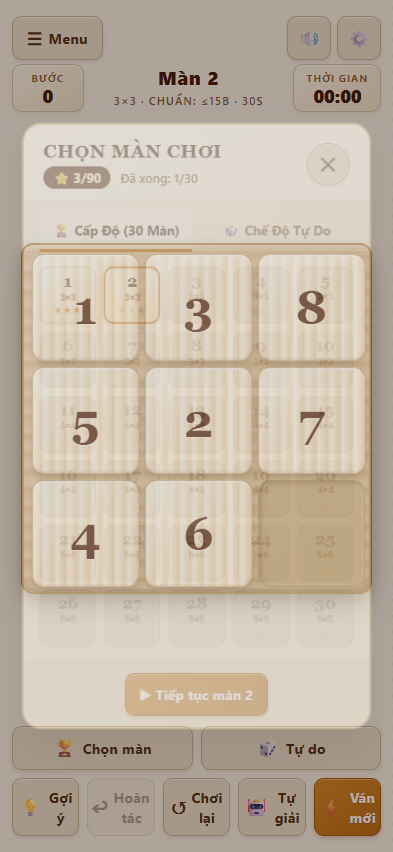
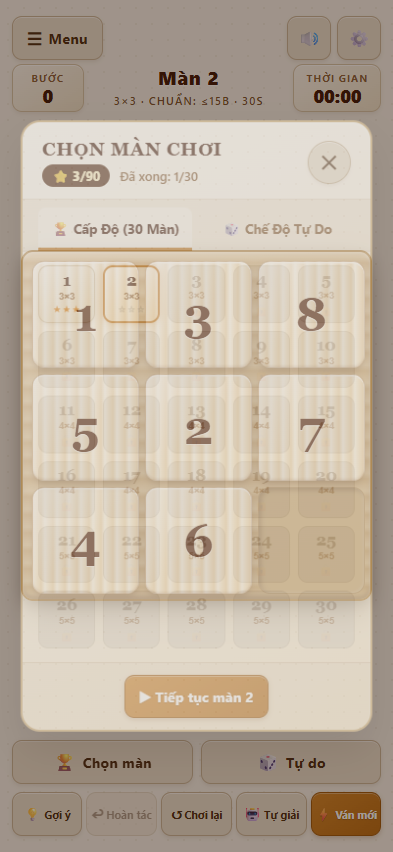
fix(ui): equalize HUD buttons dimensions and prevent multi-line wrap
- Make all HUD buttons equal width using CSS Grid (repeat(N, minmax(0, 1fr))) and flex: 1 1 0 fallback
- Enforce strict uniform heights (44px mobile/landscape, 46px desktop, 48px tablet) with box-sizing: border-box
- Add white-space: nowrap to avoid awkward word breaks (e.g. 'Hoàn tác', 'Trộn mới')
- Refine font sizes, padding, and gaps for full cross-device responsiveness without overflow
- Standardize size buttons (3x3 to 8x8) and nav buttons layout
- Update all visual audit screenshots across devices

diff --git a/src/style.css b/src/style.css
@@ -438,36 +438,49 @@ body {
 }
 
 .mode-nav-bar {
-  display: flex;
-  justify-content: space-between;
-  align-items: center;
+  display: grid;
+  grid-template-columns: repeat(2, minmax(0, 1fr));
   gap: 8px;
   width: 100%;
+  box-sizing: border-box;
 }
 
 .nav-btn {
-  flex: 1;
+  flex: 1 1 0;
+  min-width: 0;
+  width: 100%;
+  height: 44px;
+  min-height: 44px;
+  max-height: 44px;
+  display: inline-flex;
+  align-items: center;
+  justify-content: center;
+  gap: 6px;
   font-size: 0.85rem;
-  padding: 6px 12px;
+  padding: 0 10px;
+  white-space: nowrap;
+  box-sizing: border-box;
 }
 
 .size-selector-group {
-  display: flex;
-  flex-wrap: wrap;
-  justify-content: center;
-  align-items: center;
+  display: grid;
+  grid-template-columns: repeat(6, minmax(0, 1fr));
   gap: 6px;
   background: rgba(220, 205, 180, 0.4);
   padding: 4px;
   border-radius: 12px;
   width: 100%;
+  box-sizing: border-box;
+  align-items: center;
 }
 
 .action-buttons-group {
-  display: flex;
-  justify-content: space-between;
+  display: grid;
+  grid-template-columns: repeat(5, minmax(0, 1fr));
+  gap: 4px;
+  width: 100%;
+  box-sizing: border-box;
   align-items: center;
-  gap: 8px;
 }
 
 /* Universal Button Styles (min 44x44px touch target) */
@@ -491,6 +504,8 @@ body {
   transition: all 120ms ease;
   user-select: none;
   touch-action: manipulation;
+  box-sizing: border-box;
+  white-space: nowrap;
 }
 
 @media (hover: hover) {
@@ -530,12 +545,21 @@ body {
 }
 
 .size-btn {
-  flex: 1 1 calc(16.666% - 6px);
-  min-width: 44px;
+  flex: 1 1 0;
+  min-width: 0;
+  width: 100%;
+  height: 44px;
   min-height: 44px;
+  max-height: 44px;
   font-size: 0.82rem;
-  padding: 6px 4px;
+  font-weight: 700;
+  padding: 0 2px;
   border-radius: 8px;
+  display: inline-flex;
+  align-items: center;
+  justify-content: center;
+  white-space: nowrap;
+  box-sizing: border-box;
 }
 
 .size-btn.active {
@@ -546,7 +570,33 @@ body {
 }
 
 .action-btn {
-  flex: 1;
+  flex: 1 1 0;
+  min-width: 0;
+  width: 100%;
+  height: 44px;
+  min-height: 44px;
+  max-height: 44px;
+  display: inline-flex;
+  align-items: center;
+  justify-content: center;
+  gap: 3px;
+  padding: 0 2px;
+  font-size: clamp(0.70rem, 1.8vw, 0.85rem);
+  font-weight: 700;
+  white-space: nowrap;
+  letter-spacing: -0.2px;
+  box-sizing: border-box;
+}
+
+.action-btn .btn-icon {
+  font-size: 0.82rem;
+  line-height: 1;
+  flex-shrink: 0;
+}
+
+.action-btn .btn-text {
+  white-space: nowrap;
+  font-size: inherit;
 }
 
 .btn-active-solving {
@@ -1087,16 +1137,19 @@ body {
   }
 
   .size-selector-group {
+    display: grid;
+    grid-template-columns: repeat(3, minmax(0, 1fr));
     padding: 2px;
     gap: 4px;
   }
 
   .size-selector-group .size-btn {
-    flex: 1 1 calc(33.333% - 4px);
     min-width: 44px;
     min-height: 44px;
+    height: 44px;
+    max-height: 44px;
     font-size: 0.78rem;
-    padding: 4px 2px;
+    padding: 0 2px;
   }
 
   .mode-nav-bar {
@@ -1105,20 +1158,30 @@ body {
 
   .nav-btn {
     min-height: 44px;
-    padding: 4px 6px;
+    height: 44px;
+    max-height: 44px;
+    padding: 0 6px;
     font-size: 0.8rem;
   }
 
   .action-buttons-group {
     display: grid;
-    grid-template-columns: repeat(2, 1fr);
+    grid-template-columns: repeat(2, minmax(0, 1fr));
     gap: 6px;
   }
 
   .action-btn {
     min-width: 44px;
     min-height: 44px;
-    padding: 6px 4px;
+    height: 44px;
+    max-height: 44px;
+    padding: 0 4px;
+    font-size: 0.8rem;
+    gap: 4px;
+  }
+
+  .action-btn .btn-icon {
+    font-size: 0.85rem;
   }
 
   .action-btn#btn-scramble {
@@ -1139,6 +1202,42 @@ body {
   .hud-top,
   .hud-bottom {
     max-width: 520px;
+  }
+
+  .action-buttons-group {
+    gap: 8px;
+  }
+
+  .action-btn {
+    height: 48px;
+    min-height: 48px;
+    max-height: 48px;
+    font-size: 0.88rem;
+    gap: 6px;
+    padding: 0 8px;
+  }
+
+  .action-btn .btn-icon {
+    font-size: 1rem;
+  }
+
+  .size-selector-group {
+    gap: 8px;
+    padding: 6px;
+  }
+
+  .size-btn {
+    height: 48px;
+    min-height: 48px;
+    max-height: 48px;
+    font-size: 0.88rem;
+  }
+
+  .nav-btn {
+    height: 48px;
+    min-height: 48px;
+    max-height: 48px;
+    font-size: 0.95rem;
   }
 
   .stat-card {
@@ -1228,13 +1327,49 @@ body {
     gap: 12px;
   }
 
+  .size-selector-group {
+    display: grid;
+    grid-template-columns: repeat(3, minmax(0, 1fr));
+    gap: 6px;
+    padding: 4px;
+  }
+
+  .size-btn {
+    height: 44px;
+    min-height: 44px;
+    max-height: 44px;
+    font-size: 0.82rem;
+  }
+
+  .mode-nav-bar {
+    gap: 8px;
+  }
+
+  .nav-btn {
+    height: 46px;
+    min-height: 46px;
+    max-height: 46px;
+    font-size: 0.92rem;
+  }
+
   .action-buttons-group {
-    flex-direction: column;
+    display: grid;
+    grid-template-columns: 1fr;
     gap: 8px;
   }
 
   .action-btn {
     width: 100%;
+    height: 46px;
+    min-height: 46px;
+    max-height: 46px;
+    font-size: 0.92rem;
+    gap: 8px;
+    padding: 0 12px;
+  }
+
+  .action-btn .btn-icon {
+    font-size: 1.1rem;
   }
 
   .btn {
@@ -1258,6 +1393,37 @@ body {
   .hud-top,
   .hud-bottom {
     max-width: 600px;
+  }
+
+  .action-buttons-group {
+    gap: 8px;
+  }
+
+  .action-btn {
+    height: 46px;
+    min-height: 46px;
+    max-height: 46px;
+    font-size: 0.9rem;
+    gap: 6px;
+    padding: 0 8px;
+  }
+
+  .action-btn .btn-icon {
+    font-size: 1rem;
+  }
+
+  .size-btn {
+    height: 46px;
+    min-height: 46px;
+    max-height: 46px;
+    font-size: 0.88rem;
+  }
+
+  .nav-btn {
+    height: 46px;
+    min-height: 46px;
+    max-height: 46px;
+    font-size: 0.92rem;
   }
 
   .btn {

diff --git a/src/ui/components/hud-view.ts b/src/ui/components/hud-view.ts
@@ -235,7 +235,7 @@ export class HudView {
         this.setLevel(levelConfig);
       }
     } else {
-      if (sizeGroup) sizeGroup.style.display = 'flex';
+      if (sizeGroup) sizeGroup.style.display = 'grid';
       if (toggleText) toggleText.textContent = 'Cấp độ';
       if (scrambleText) scrambleText.textContent = 'Trộn mới';
 
